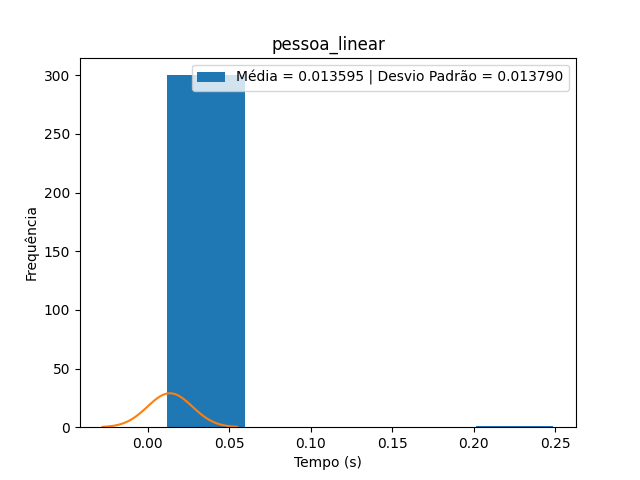
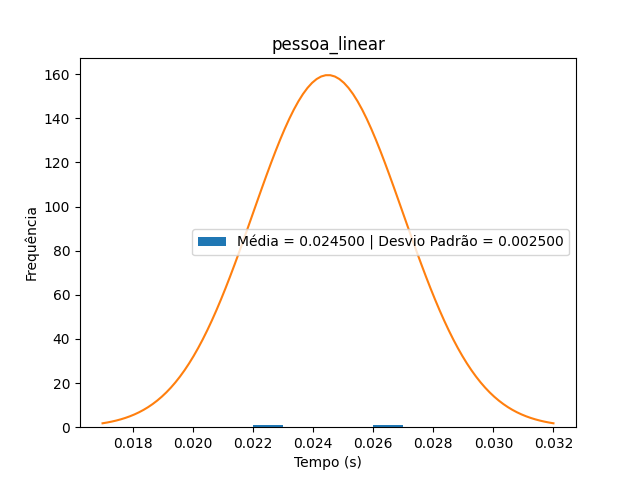
Supostamente consertei a blur e os codigos que usam ela

diff --git a/src/blur_threads.c b/src/blur_threads.c
@@ -15,8 +15,9 @@ typedef struct argument{
 
 void *worker(void *arg){
 	argument *real_arg = (argument *) arg; 						// Faz um cast para o tipo original
-	blur(real_arg->color, real_arg->width, real_arg->height, N, real_arg->color); 	// Realiza o blur
-	
+	float *v = malloc(sizeof(float)*real_arg->width*real_arg->height);		// Cria um novo vetor para salvar a imagem com blur
+	blur(real_arg->color, real_arg->width, real_arg->height, N, v); 		// Realiza o blur
+	real_arg->color = v;
 	return (void *) real_arg->color; 				// Retorna o novo vetor com o blur aplicado
 }
 
@@ -53,6 +54,8 @@ int main(int argc, char *argv[]){
 	pthread_join(g, &new_g);
 	pthread_join(b, &new_b);
 
+	liberar_imagem(&I);
+	
 	// Atualiza a imagem com os novos valores com blur
 	I.r = (float *) new_r;
 	I.g = (float *) new_g;
@@ -60,6 +63,7 @@ int main(int argc, char *argv[]){
 	
 	// Salva a imagem e libera ela
 	salvar_imagem(argv[2], &I);
+	
 	liberar_imagem(&I);
 	
 	return 0;

diff --git a/src/blur.c b/src/blur.c
@@ -1,22 +1,23 @@
 #include <stdlib.h>
 #include "blur.h"
 #include "imageprocessing.h"
+#include <stdio.h>
 
 void blur(float *a, int width, int height, int N, float *f) {
 
 	int area;
-	int soma;
+	float soma;
 	
 	for(int i = 0; i < (width*height); i++) {
 		soma = 0;
 		area = N*N;
-		for(int j = i-(((N-1)/2)*width); j <= i+(((N-1)/2)*width); j += width) {
-			for(int k = -(N-1)/2; k < (N-1)/2; k++) {
-				if((j+k < 0) || (j+k >= width*height)) {
+		for(int j = (1-N)/2; j <= (N-1)/2; j++) {
+			for(int k = (1-N)/2; k <= (N-1)/2; k++) {
+				if(((int)(i/width) + j < 0) || ((int)(i/width) + j >= height) || ((int)(i%width) + k < 0) || ((int)(i%width) + k >= width)) {
 					area--;
 				}
 				else {
-					soma += a[j+k]; 
+					soma += a[i+(j*width)+k]; 
 				}
 			}
 		}

diff --git a/src/blur_linear.c b/src/blur_linear.c
@@ -1,6 +1,7 @@
 #include <stdio.h>
 #include "imageprocessing.h"
 #include "blur.h"
+#include <stdlib.h>
 
 #define N 3
 
@@ -9,11 +10,22 @@ int main(int argc, char *argv[]) {
 	imagem I;
 	
 	I = abrir_imagem(argv[1]);
+
+	float *r, *g, *b;
+	r = malloc(I.width*I.height*(sizeof(float)));
+	g = malloc(I.width*I.height*(sizeof(float)));
+	b = malloc(I.width*I.height*(sizeof(float)));
 		
-	blur(I.r, I.width, I.height, N, I.r);
-	blur(I.g, I.width, I.height, N, I.g);
-	blur(I.b, I.width, I.height, N, I.b);
+	blur(I.r, I.width, I.height, N, r);
+	blur(I.g, I.width, I.height, N, g);
+	blur(I.b, I.width, I.height, N, b);
 	
+	liberar_imagem(&I);
+	
+	I.r = r;
+	I.g = g;
+	I.b = b;
+
 	salvar_imagem(argv[2], &I);
 	liberar_imagem(&I);
 	
